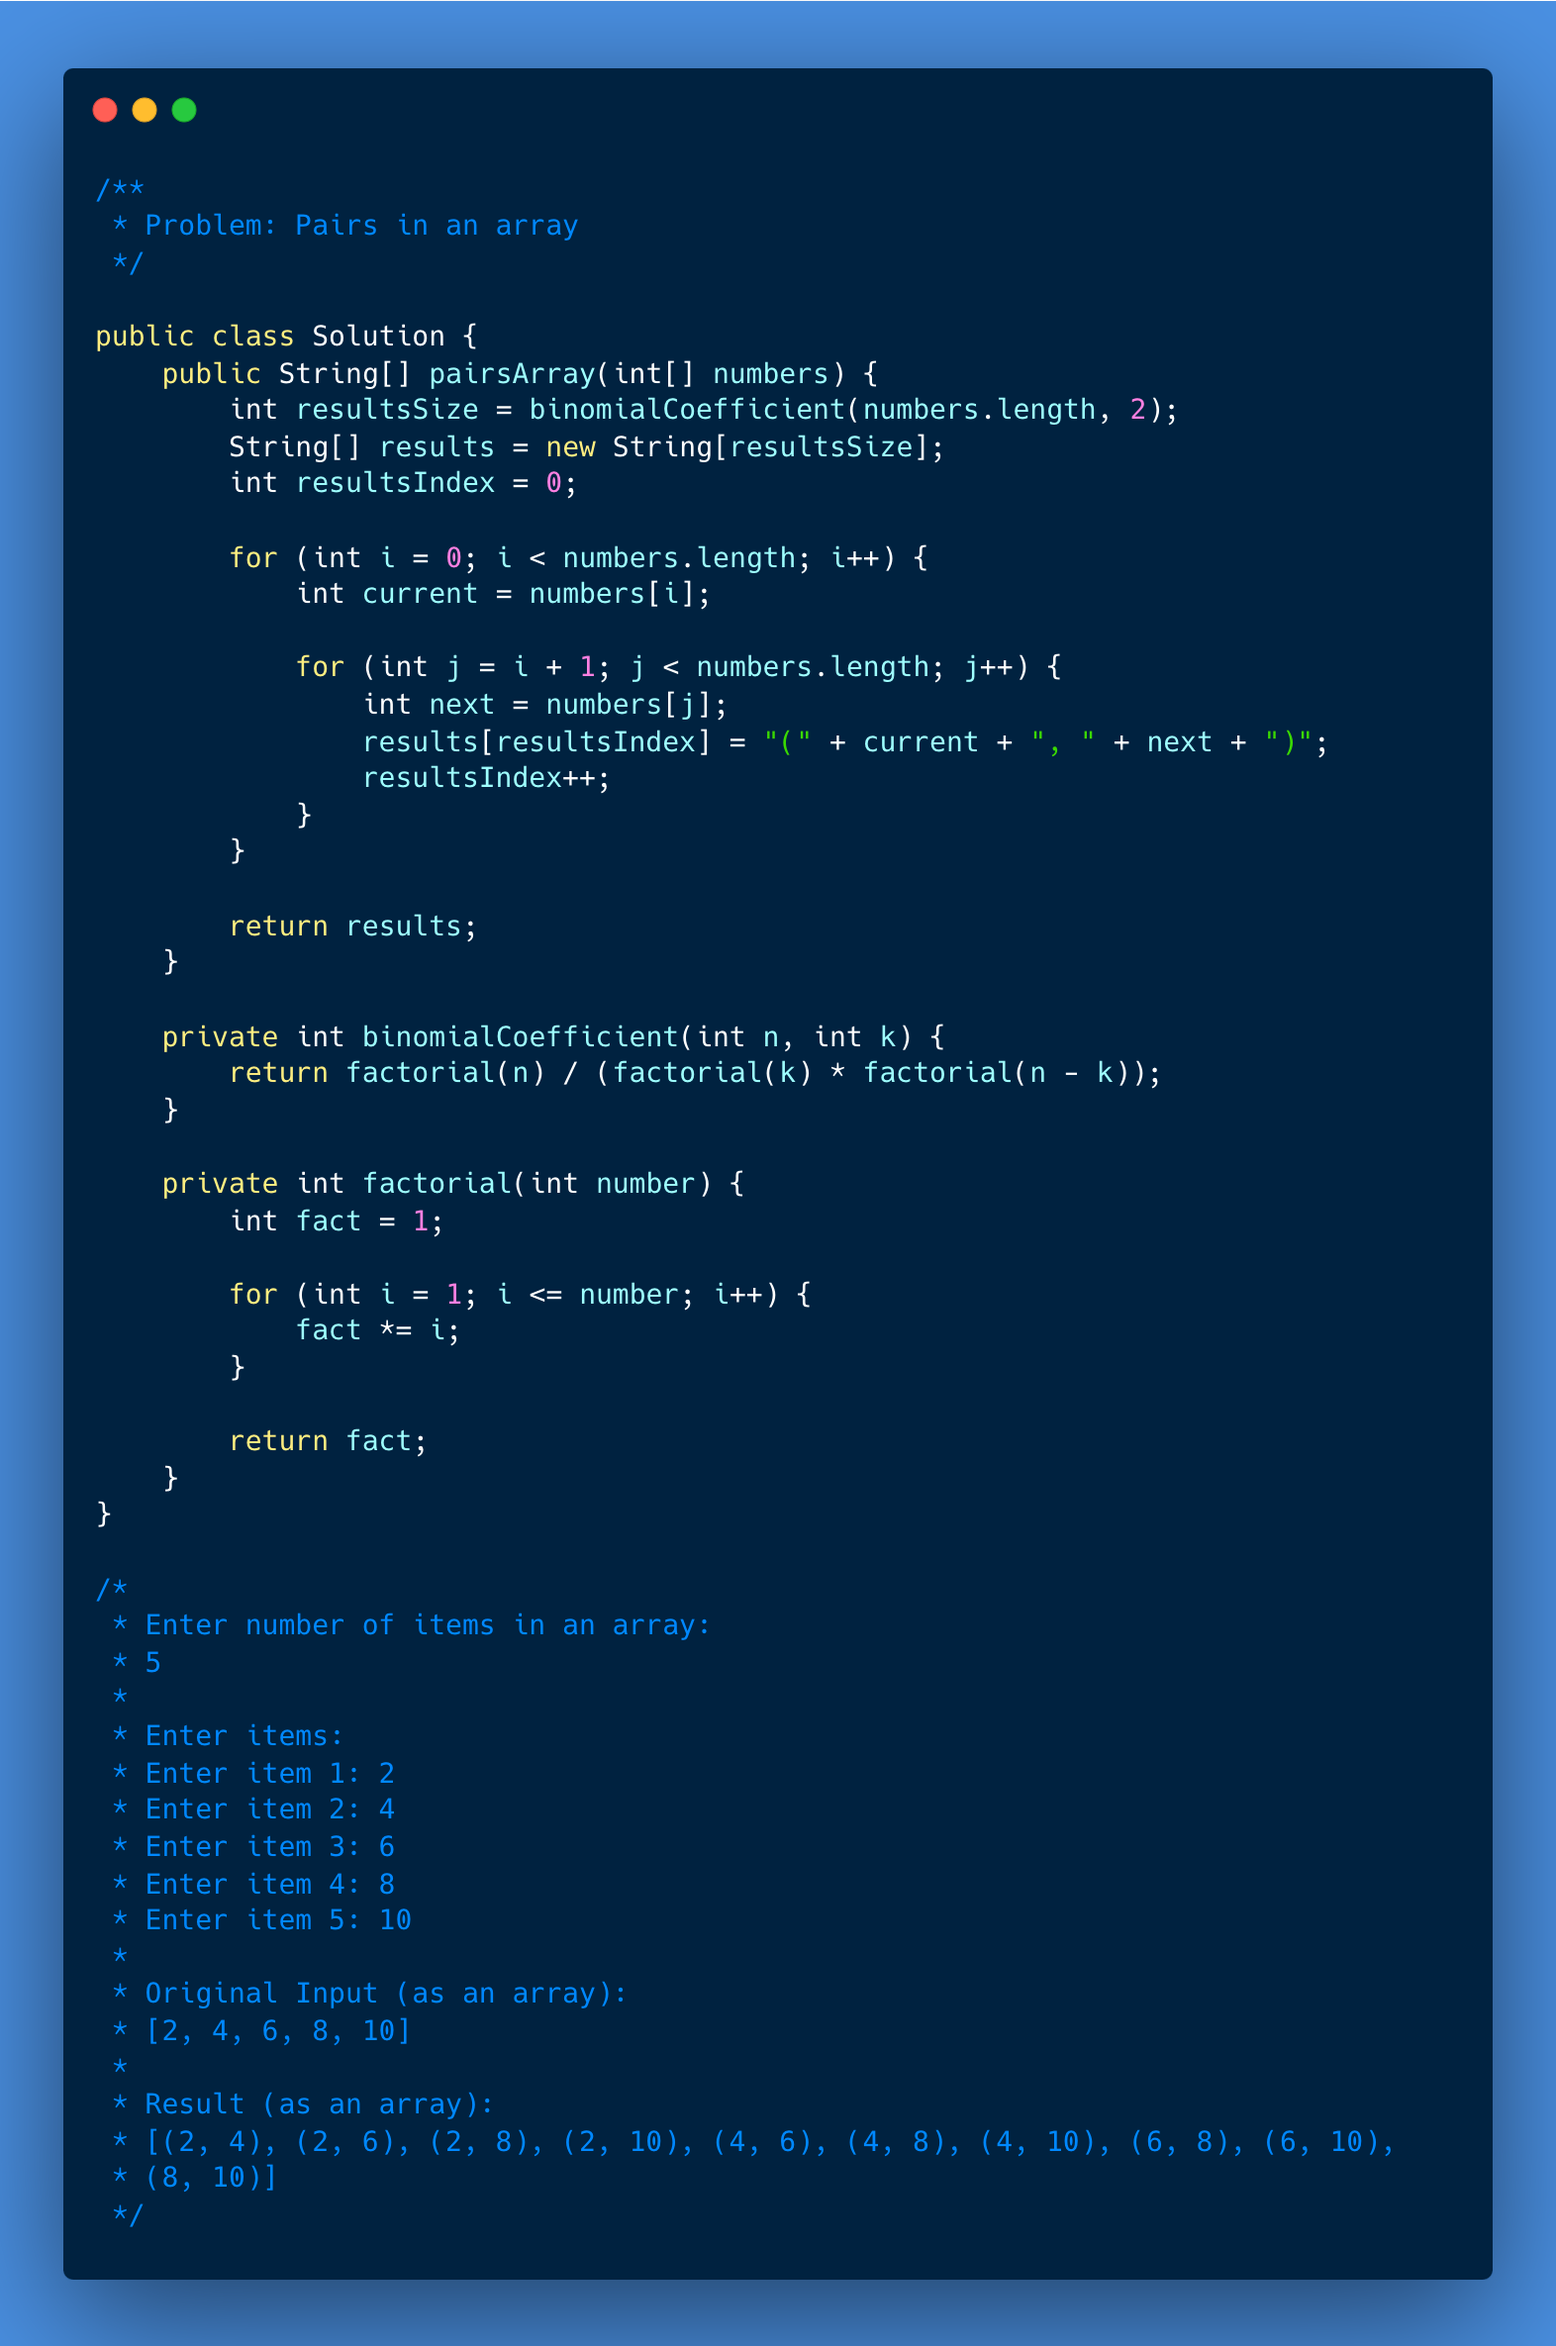
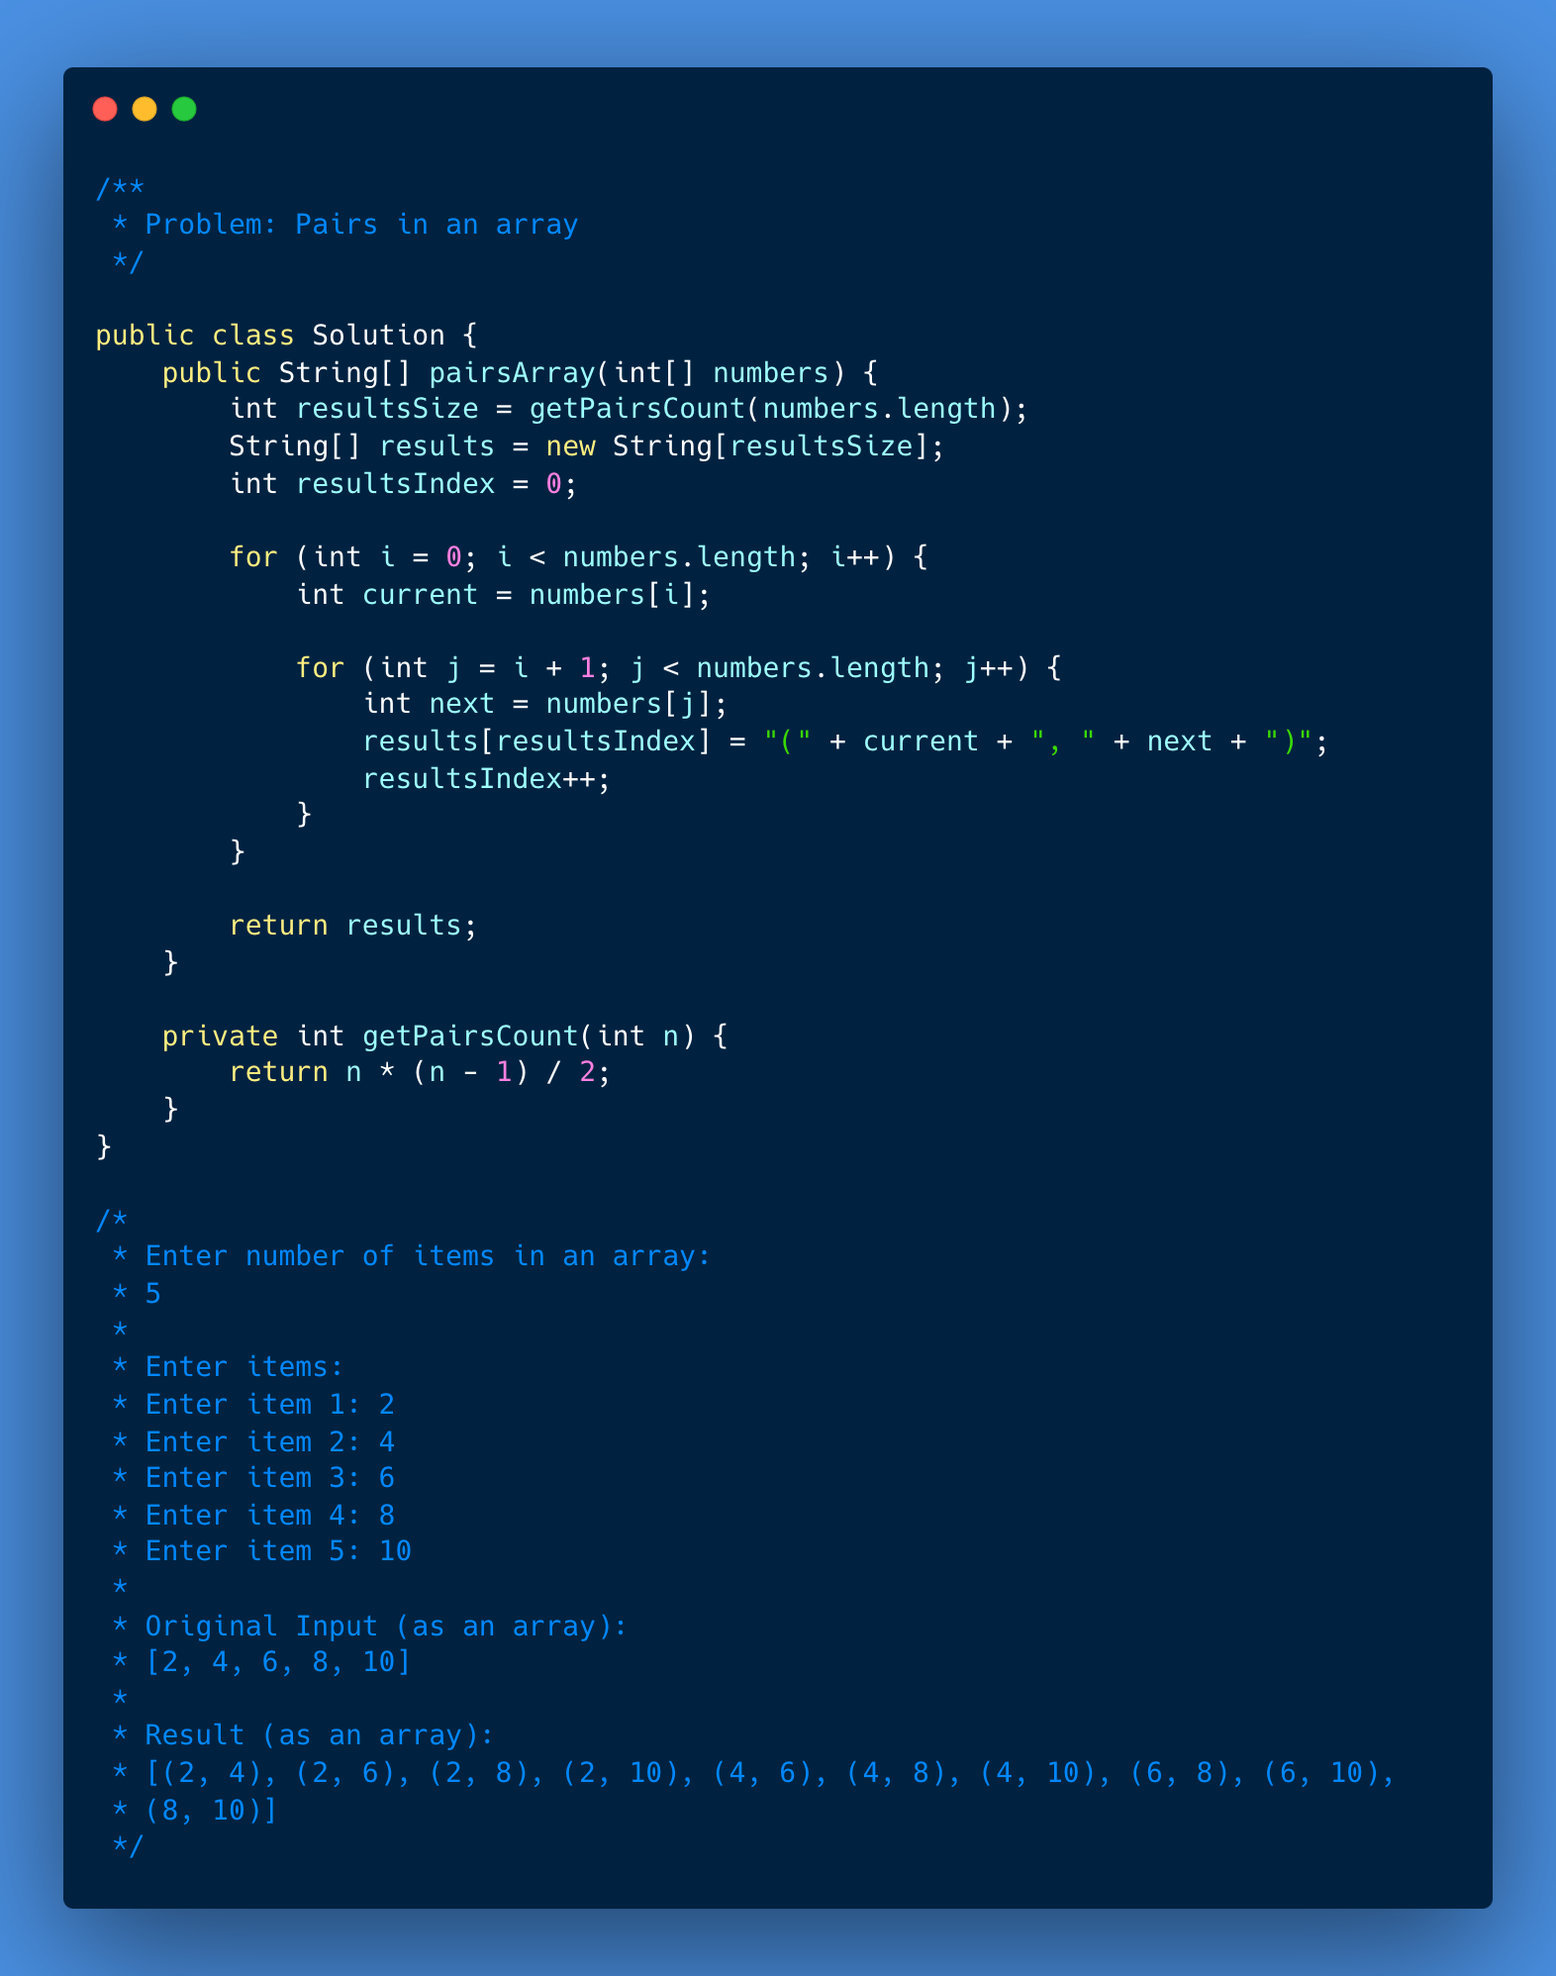
Update to helper logic for pairs of array

diff --git a/046-pairs-array/001-solution/Solution.java b/046-pairs-array/001-solution/Solution.java
@@ -4,7 +4,7 @@
 
 public class Solution {
     public String[] pairsArray(int[] numbers) {
-        int resultsSize = binomialCoefficient(numbers.length, 2);
+        int resultsSize = getPairsCount(numbers.length);
         String[] results = new String[resultsSize];
         int resultsIndex = 0;
 
@@ -21,18 +21,8 @@ public class Solution {
         return results;
     }
 
-    private int binomialCoefficient(int n, int k) {
-        return factorial(n) / (factorial(k) * factorial(n - k));
-    }
-
-    private int factorial(int number) {
-        int fact = 1;
-
-        for (int i = 1; i <= number; i++) {
-            fact *= i;
-        }
-
-        return fact;
+    private int getPairsCount(int n) {
+        return n * (n - 1) / 2;
     }
 }
 
